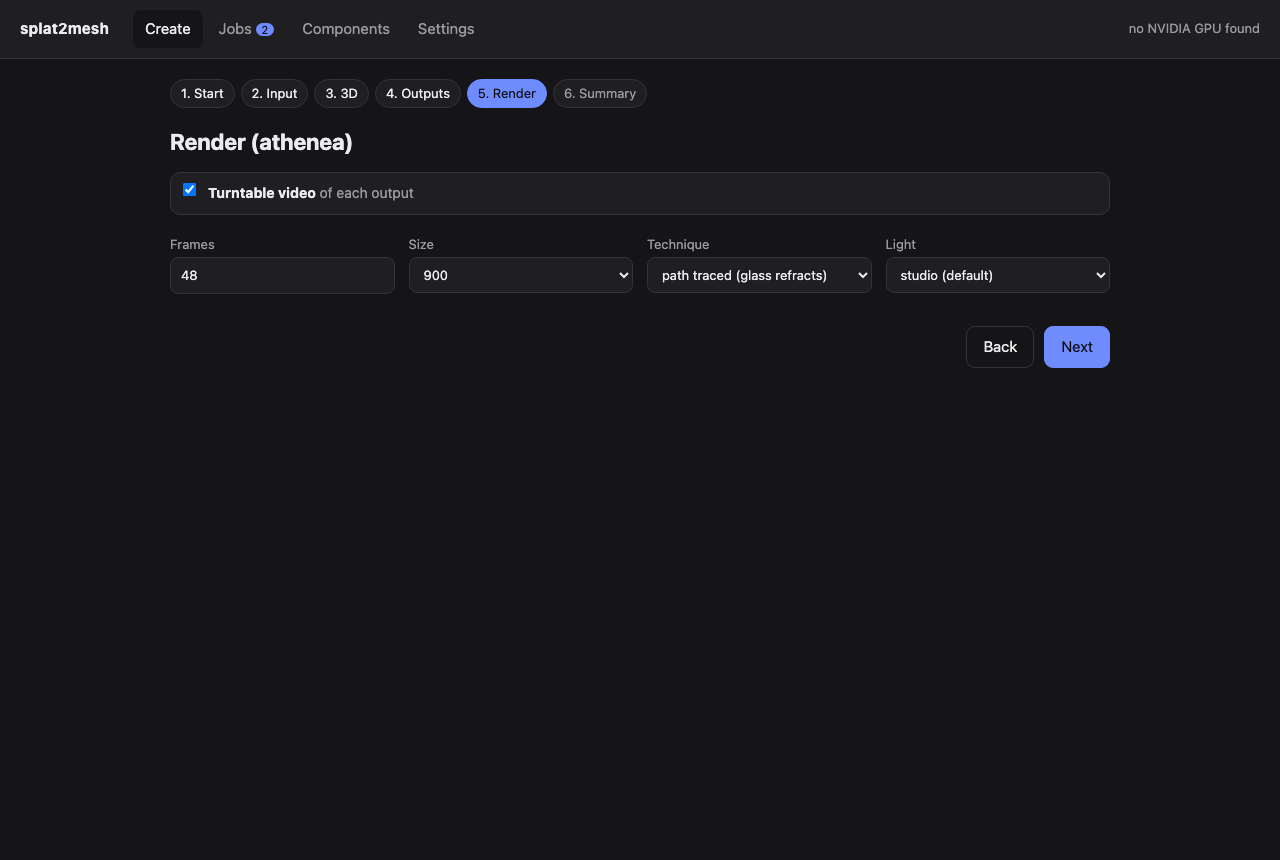
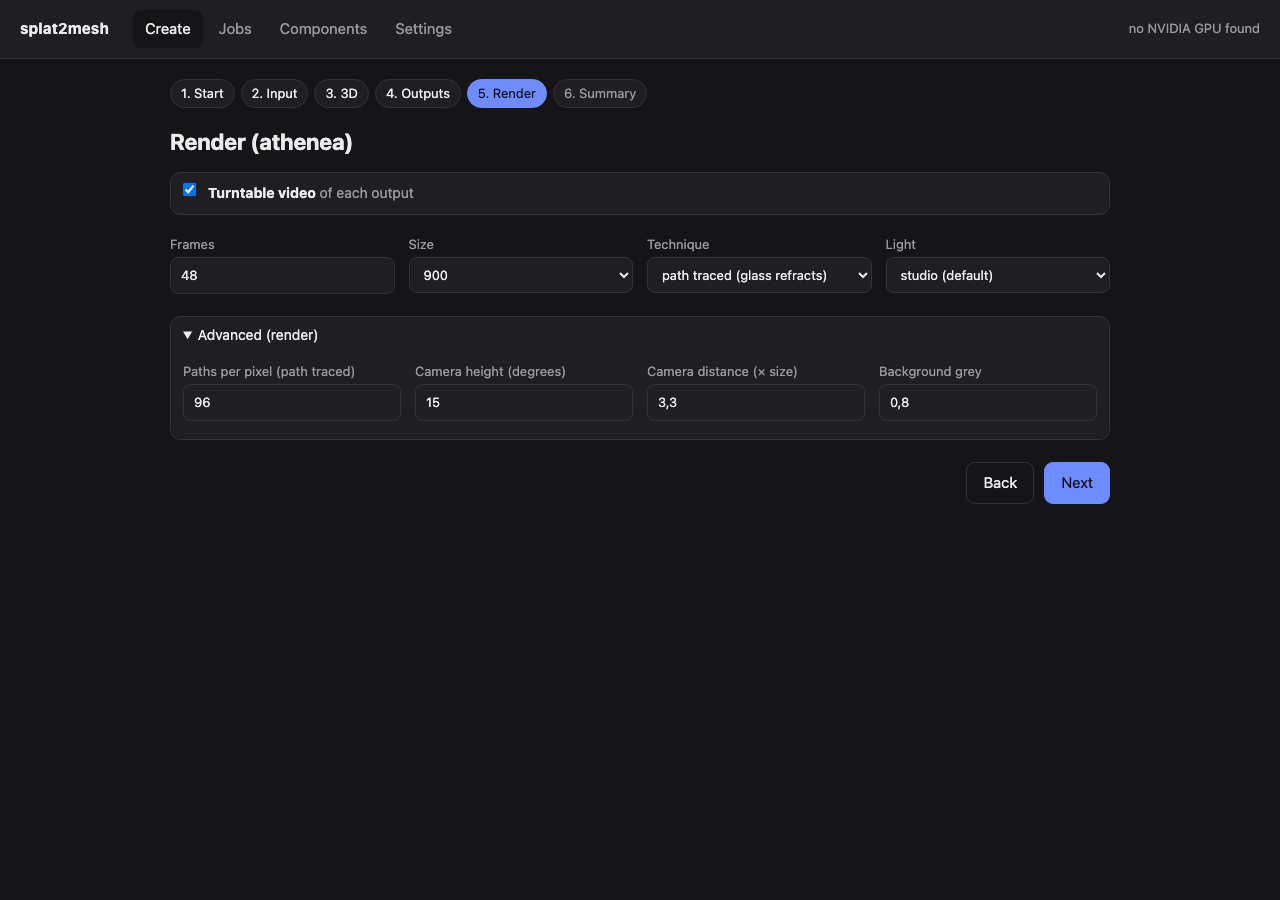
App: every option in the wizard (Advanced panels), offline DINOv3 for the installer
- 3D: picture type, sampling steps, CFG, time shift, DINOv3 precision (idol_sample passes them).
- Outputs: mesh path (direct / render), smoothing, folds limit, render-path texture; materials:
  parts limit, coverage check, mask check and overlaps, DeepSeek model; glass: refracting or
  for browsers, surfel spacing.
- Render: paths per pixel, camera height and distance, background grey.
- The summary lists what differs from the defaults; ?adv=1 opens every panel.
- winsetup install idol --dinov3-dir: a local DINOv3 copy instead of the gated download.

Claude-Session: https://claude.ai/code/session_01ShCsYzpi7wuwmF3CBAZNXx

diff --git a/splat2mesh/app/static/app.js b/splat2mesh/app/static/app.js
@@ -54,12 +54,19 @@ $("#image").onchange = () => { const f = $("#image").files[0]; const im = $("#im
 function options() {
   return {
     text2image: { seed: +$("#t2i_seed").value, size: $("#t2i_size").value, mode: $("#t2i_mode").value },
-    idol: { seeds: +$("#seeds").value, gaussians: +$("#gaussians").value },
+    idol: { seeds: +$("#seeds").value, gaussians: +$("#gaussians").value, mode: $("#idol_mode").value,
+            steps: +$("#idol_steps").value, cfg: +$("#idol_cfg").value, rescale_t: +$("#idol_rescale").value,
+            dinov3_dtype: $("#idol_dino").value },
     outputs: { splat: $("#out_splat").checked, mesh: $("#out_mesh").checked, materials: $("#out_materials").checked },
-    mesh: { faces: +$("#faces").value, tex: +$("#tex").value },
+    mesh: { faces: +$("#faces").value, tex: +$("#tex").value, path: $("#mesh_path").value, smooth: +$("#mesh_smooth").value,
+            max_folds: +$("#mesh_folds").value, render_tex: +$("#mesh_rtex").value },
+    materials: { max_parts: +$("#max_parts").value, coverage: $("#coverage").checked, overlap: $("#overlap").checked,
+                 deepseek_model: $("#ds_model").value.trim() },
+    glass: { mode: $("#glass_mode").value, cell: +$("#glass_cell").value },
     parts: $("#parts").value.trim(),
     render: { turntable: $("#tt").checked, frames: +$("#frames").value, size: +$("#size").value,
-              technique: $("#technique").value, hdri: $("#hdri").value },
+              technique: $("#technique").value, hdri: $("#hdri").value, spp: +$("#spp").value,
+              elev: +$("#elev").value, dist: +$("#dist").value, grey: +$("#grey").value },
   };
 }
 
@@ -73,6 +80,28 @@ function estimate(o, n) {      // minutes on an 8 GB RTX, from measured runs
   return Math.round(m * n);
 }
 
+function advancedSummary(o) {      // only what differs from the defaults
+  const d = [];
+  const i = o.idol;
+  if (i.mode !== "auto") d.push(`Idol ${i.mode}`);
+  if (i.steps !== 50) d.push(`${i.steps} steps`);
+  if (i.cfg !== 3) d.push(`CFG ${i.cfg}`);
+  if (i.rescale_t !== 3) d.push(`time shift ${i.rescale_t}`);
+  if (i.dinov3_dtype !== "bf16") d.push("DINOv3 fp32");
+  if (o.outputs.mesh && o.mesh.path !== "direct") d.push("render path");
+  if (o.outputs.mesh && o.mesh.smooth) d.push(`smoothing ${o.mesh.smooth}`);
+  if (o.materials.max_parts !== 12) d.push(`${o.materials.max_parts} parts max`);
+  if (!o.materials.coverage) d.push("no coverage check");
+  if (!o.materials.overlap) d.push("masks unchecked");
+  if (o.materials.deepseek_model) d.push(o.materials.deepseek_model);
+  if (o.glass.mode !== "path") d.push("glass for browsers");
+  if (o.glass.cell !== 1) d.push(`glass spacing ${o.glass.cell}`);
+  if (o.render.technique === "rt" && o.render.spp !== 96) d.push(`${o.render.spp} spp`);
+  if (o.render.elev !== 15 || o.render.dist !== 3.3) d.push(`camera ${o.render.elev}° × ${o.render.dist}`);
+  if (o.render.grey !== 0.8) d.push(`grey ${o.render.grey}`);
+  return d.join(", ");
+}
+
 function summary() {
   const o = options(); const s = source();
   const n = s === "batch" ? (batchKind() === "prompts" ? $("#batch_prompts").value.split("\n").filter((x) => x.trim()).length : $("#batch_images").files.length) : 1;
@@ -82,6 +111,7 @@ function summary() {
     ["Idol", s === "splat" ? "—" : `${o.idol.seeds} seed${o.idol.seeds > 1 ? "s (best kept)" : ""}, ${o.idol.gaussians.toLocaleString()} gaussians`],
     ["Outputs", outs], ["Materials", o.outputs.materials ? (o.parts ? "by hand: " + o.parts : "automatic (DeepSeek + ENEAS)") : "none"],
     ["Turntable", o.render.turntable ? `${o.render.frames} frames, ${o.render.size}px, ${o.render.technique}, ${o.render.hdri || "studio"}` : "none"],
+    ["Advanced", advancedSummary(o) || "defaults"],
     ["Estimated time", `about ${estimate(o, n)} min`],
   ];
   $("#summary").innerHTML = rows.map(([k, v]) => `<dt>${k}</dt><dd>${v}</dd>`).join("");
@@ -218,5 +248,6 @@ if (q.get("seeds")) { $("#seeds").value = q.get("seeds"); $("#seeds_v").value = 
 if (q.get("mesh")) $("#out_mesh").checked = q.get("mesh") === "1";
 if (q.get("technique")) $("#technique").value = q.get("technique");
 if (q.get("name")) $("#jobname").value = q.get("name");
+if (q.get("adv") === "1") $$("details").forEach((d) => d.open = true);
 if (q.get("step")) step = Math.max(0, visibleSteps().findIndex(([id]) => id === q.get("step")));
 renderSteps(); refreshStatus().then(() => { if (location.hash) show(location.hash.slice(1)); renderSteps(); }); refreshJobs();

diff --git a/splat2mesh/app/static/index.html b/splat2mesh/app/static/index.html
@@ -83,6 +83,17 @@
         <option value="131072">131 072 (fast)</option><option value="262144" selected>262 144</option>
         <option value="524288">524 288 (detail)</option><option value="1048576">1 048 576 (max)</option></select></label>
     </div>
+    <details><summary>Advanced (Idol)</summary>
+      <div class="row">
+        <label>Picture type <select id="idol_mode"><option value="auto" selected>automatic (.jpg = photo)</option>
+          <option value="synthetic">render or generated (crop 1.2)</option><option value="real">photo (crop 1.7)</option></select></label>
+        <label>Sampling steps <input id="idol_steps" type="number" value="50" min="10" max="200"></label>
+        <label>Guidance (CFG) <input id="idol_cfg" type="number" value="3.0" step="0.5" min="1" max="10"></label>
+        <label>Time shift <input id="idol_rescale" type="number" value="3.0" step="0.5" min="1" max="8"></label>
+        <label>DINOv3 precision <select id="idol_dino"><option value="bf16" selected>bf16</option><option value="fp32">fp32 (+1.7 GB)</option></select></label>
+      </div>
+      <p class="hint">Defaults are Idol's own. Seeds tried: 42, 1, 2, 3… in that order.</p>
+    </details>
   </div>
 
   <div class="step" data-step="outputs">
@@ -99,6 +110,31 @@
       <label>Faces <input id="faces" type="number" value="80000" step="10000"></label>
       <label>Texture <select id="tex"><option>2048</option><option selected>4096</option></select></label>
     </div>
+    <details><summary>Advanced (mesh)</summary>
+      <div class="row">
+        <label>Path <select id="mesh_path"><option value="direct" selected>direct mode (the splat's opacity field)</option>
+          <option value="render">render path (87 views, TSDF + visual hull)</option></select></label>
+        <label>Smoothing (Taubin, ×10 iterations) <input id="mesh_smooth" type="number" value="0" step="0.5" min="0" max="10"></label>
+        <label>Folds before the render path <input id="mesh_folds" type="number" value="300" min="0"></label>
+        <label>Render path texture <select id="mesh_rtex"><option>1024</option><option selected>2048</option><option>4096</option></select></label>
+      </div>
+    </details>
+    <details><summary>Advanced (materials)</summary>
+      <div class="row">
+        <label>Parts DeepSeek may list <input id="max_parts" type="number" value="12" min="3" max="20"></label>
+        <label class="check"><input id="coverage" type="checkbox" checked><span>Check for large parts the list missed (hands, boots…)</span></label>
+        <label class="check"><input id="overlap" type="checkbox" checked><span>Check each mask and settle overlaps (DeepSeek)</span></label>
+        <label>DeepSeek model <input id="ds_model" placeholder="deepseek-flash"></label>
+      </div>
+    </details>
+    <details><summary>Advanced (glass on the splat)</summary>
+      <div class="row">
+        <label>Glass <select id="glass_mode"><option value="path" selected>refracting (path traced in athenea)</option>
+          <option value="browser">seen through (raster, browsers)</option></select></label>
+        <label>Surfel spacing <select id="glass_cell"><option value="1" selected>fine (most surfels)</option>
+          <option value="1.5">medium</option><option value="2">coarse (a quarter, lighter files)</option></select></label>
+      </div>
+    </details>
     <details><summary>Parts by hand (optional)</summary>
       <p class="hint">Instead of the automatic list: <code>material: part, part; material: part</code> with the
         library's names, e.g. <code>leather: the boots, the belt; polished steel: the helmet</code>.</p>
@@ -115,6 +151,14 @@
         <option value="rt">path traced (glass refracts)</option></select></label>
       <label>Light <select id="hdri"></select></label>
     </div>
+    <details><summary>Advanced (render)</summary>
+      <div class="row">
+        <label>Paths per pixel (path traced) <input id="spp" type="number" value="96" min="8" max="2048"></label>
+        <label>Camera height (degrees) <input id="elev" type="number" value="15" min="-30" max="80"></label>
+        <label>Camera distance (× size) <input id="dist" type="number" value="3.3" step="0.1" min="1.5" max="8"></label>
+        <label>Background grey <input id="grey" type="number" value="0.8" step="0.05" min="0" max="1"></label>
+      </div>
+    </details>
   </div>
 
   <div class="step" data-step="review">

diff --git a/splat2mesh/app/static/style.css b/splat2mesh/app/static/style.css
@@ -76,3 +76,7 @@ a { color: var(--accent); }
 code { font-size: 12px; }
 @media (max-width: 640px) { header { flex-wrap: wrap; gap: 8px; } .gpu { margin-left: 0; } main { padding: 16px; }
   .summary { grid-template-columns: 1fr; } }
+details { margin: 12px 0; background: var(--panel); border: 1px solid var(--line); border-radius: 10px; padding: 8px 12px; }
+details > summary { cursor: pointer; color: var(--ink); font-size: 14px; }
+details[open] > summary { margin-bottom: 6px; }
+.row > .check { flex: 1 1 260px; margin: 10px 0; }

diff --git a/splat2mesh/app/pipeline.py b/splat2mesh/app/pipeline.py
@@ -7,11 +7,16 @@ JOB.json (every key optional except source and its input):
    "source": "prompt" | "image" | "splat",
    "prompt": "...", "image": "path.png", "splat": "path.ply", "camera": "idol_camera.json", "input": "idol_input.png",
    "text2image": {"seed": 7, "size": "1024x1024", "mode": "auto" | "gpu" | "cpu-encoder" | "space"},
-   "idol": {"seeds": 1, "gaussians": 262144},
+   "idol": {"seeds": 1, "gaussians": 262144, "mode": "auto" | "synthetic" | "real", "steps": 50, "cfg": 3.0,
+            "rescale_t": 3.0, "dinov3_dtype": "bf16" | "fp32"},
    "outputs": {"splat": true, "mesh": false, "materials": true},
-   "mesh": {"faces": 80000, "tex": 4096},
+   "materials": {"max_parts": 12, "coverage": true, "overlap": true, "deepseek_model": ""},
+   "glass": {"mode": "path" | "browser", "cell": 1.0},
+   "mesh": {"path": "direct" | "render", "faces": 80000, "tex": 4096, "smooth": 0.0, "max_folds": 300,
+            "render_tex": 2048},
    "parts": "",                                  # "material: part, part; ..." to skip the automatic part list
-   "render": {"turntable": true, "frames": 48, "size": 900, "technique": "raster", "hdri": ""}}
+   "render": {"turntable": true, "frames": 48, "size": 900, "technique": "raster", "spp": 96, "elev": 15,
+              "dist": 3.3, "grey": 0.8, "hdri": ""}}
 
 Progress lines:  PROGRESS <0-100> <stage>: <message>      Outputs:  <out>/results.json
 """
@@ -96,7 +101,9 @@ def idol(job, image: Path, out: Path, log: Path, prog) -> tuple[Path, Path, Path
         prog("splat", i / n, f"Idol, seed {s} ({i + 1}/{n})")
         d = out / "seeds" / f"s{s}"
         with gpu_lock():
-            ply = idol_sample(image, d, g, seed=s)
+            ply = idol_sample(image, d, g, seed=s, mode=o.get("mode"), steps=o.get("steps"),
+                              cfg_strength=o.get("cfg"), rescale_t=o.get("rescale_t"),
+                              dinov3_dtype=o.get("dinov3_dtype"))
         if n > 1:
             prog("splat", (i + 0.7) / n, f"scoring seed {s} from four sides (athenea + DeepSeek)")
             try:
@@ -124,8 +131,14 @@ def splat_materials(job, ply, cam, inp, out: Path, log: Path, prog) -> Path:
     cmd = [PY, ROOT / "scripts/splat_flow.py", ply, d, "--input", inp, "--camera", cam]
     if job.get("prompt"):
         cmd += ["--prompt", job["prompt"]]
+    m, g = job.get("materials", {}), job.get("glass", {})
+    cmd += ["--max-parts", m.get("max_parts", 12), "--glass", g.get("mode", "path"), "--glass-cell", g.get("cell", 1.0)]
+    cmd += (["--no-coverage"] if m.get("coverage") is False else []) + (["--no-overlap"] if m.get("overlap") is False else [])
+    env = dict(os.environ)
+    if m.get("deepseek_model"):
+        env["SPLAT2MESH_DEEPSEEK_MODEL"] = m["deepseek_model"]
     p = subprocess.Popen([str(c) for c in cmd], stdout=subprocess.PIPE, stderr=subprocess.STDOUT, text=True,
-                         encoding="utf-8", errors="replace")
+                         encoding="utf-8", errors="replace", env=env)
     # the stages of scripts/splat_flow.py and materials_eneas3d.py as they print them; ENEAS (the long part)
     # moves the bar phrase by phrase
     marks = [("parts:", 0.05, "parts listed"), ("annotation frame", 0.12, "orbit rendered with athenea"),
@@ -159,12 +172,15 @@ def mesh(job, ply, cam, inp, out: Path, log: Path, prog, reuse_from: Path | None
     shutil.copy(cam, src / "00" / "idol_camera.json")
     (out / "prompts.txt").write_text((job.get("prompt") or "") + "\n")
     m = job.get("mesh", {})
+    prog("mesh", 0.05, ("direct mode" if m.get("path", "direct") == "direct" else "render path") + ": solid, UVs, texture")
+    cmd = [PY, ROOT / "scripts/splat2usd.py", src / "00" / "00.ply", "--y-down", "--out", dst,
+           "--faces", m.get("faces", 80000), "--tex", m.get("tex", 4096), "--smooth", m.get("smooth", 0.0),
+           "--max-folds", m.get("max_folds", 300), "--render-tex", m.get("render_tex", 2048)]
+    sh(cmd + (["--direct"] if m.get("path", "direct") == "direct" else []), log)
     if not job.get("outputs", {}).get("materials", True):
-        prog("mesh", 0.05, "direct mode: solid, UVs, texture")
-        sh([PY, ROOT / "scripts/splat2usd.py", src / "00" / "00.ply", "--direct", "--y-down", "--out", dst,
-            "--faces", m.get("faces", 80000), "--tex", m.get("tex", 4096)], log)
         prog("mesh", 1, "mesh ready")
         return next(dst.rglob("asset.usda"))
+    prog("mesh", 0.3, "mesh ready; materials per texel from the splat's votes")
     if reuse_from is not None:                       # the splat's own ENEAS masks: no second segmentation
         mat = dst / "00" / "usd" / "mat"; mat.mkdir(parents=True, exist_ok=True)
         for f in ("masks_gs.npz",):
@@ -174,7 +190,6 @@ def mesh(job, ply, cam, inp, out: Path, log: Path, prog, reuse_from: Path | None
             shutil.copytree(reuse_from / "mat" / "gs_orbit", mat / "gs_orbit", dirs_exist_ok=True)
         if (reuse_from / "materials.txt").exists():
             shutil.copy(reuse_from / "materials.txt", dst / "00" / "materials.txt")
-    prog("mesh", 0.05, "direct mode, then materials per texel from the splat's votes")
     sh([PY, ROOT / "scripts/flow_batch.py", src, dst, out / "prompts.txt", "--gs", "--reuse-masks"], log)
     prog("mesh", 1, "mesh with materials ready")
     return dst / "00" / "usd" / "asset.usda"
@@ -188,7 +203,8 @@ def turntable(job, asset: Path, mp4: Path, front_deg: float, log: Path, prog, st
     if r.get("hdri"):
         kw["hdri"] = r["hdri"]
     tt(asset, mp4, frames=int(r.get("frames", 48)), size=int(r.get("size", 900)),
-       technique=r.get("technique", "raster"), start_deg=front_deg, **kw)
+       technique=r.get("technique", "raster"), start_deg=front_deg, spp=int(r.get("spp", 96)),
+       elev=float(r.get("elev", 15)), dist=float(r.get("dist", 3.3)), grey=float(r.get("grey", 0.8)), **kw)
     prog(stage, 1, mp4.name)
 
 

diff --git a/scripts/splat_flow.py b/scripts/splat_flow.py
@@ -35,6 +35,12 @@ def main():
     ap.add_argument("--camera", help="Idol's camera estimate for it (when SOURCE is a .ply)")
     ap.add_argument("--reuse-masks", action="store_true"); ap.add_argument("--turntable", type=int, default=0)
     ap.add_argument("--technique", default="rt", choices=["rt", "raster"])
+    ap.add_argument("--max-parts", type=int, default=12, help="parts DeepSeek may list")
+    ap.add_argument("--no-coverage", action="store_true", help="skip DeepSeek's check for large parts the list missed")
+    ap.add_argument("--no-overlap", action="store_true", help="keep ENEAS's masks as they are (no check, no overlap resolution)")
+    ap.add_argument("--glass", default="path", choices=["path", "browser"],
+                    help="glass surfels: fully covering (refracts when path traced) or at the raster cover (seen through in a browser)")
+    ap.add_argument("--glass-cell", type=float, default=1.0, help="glass surfel spacing in grid steps (2: a quarter as many)")
     a = ap.parse_args()
     out = Path(a.out); src = out / "src"; src.mkdir(parents=True, exist_ok=True)
     t0 = time.time(); log = lambda *m: print(f"[{time.time() - t0:6.0f}s]", *m, flush=True)
@@ -56,7 +62,9 @@ def main():
     if not desc_f.exists():
         from splat2mesh.describe import complete_parts, describe_ds, part_materials_from_prompt
         # the list, then a coverage check: large visible parts it left out (hands, a cloak) are added
-        desc = complete_parts(describe_ds(src / "idol_input.png", a.prompt), src / "idol_input.png")
+        desc = describe_ds(src / "idol_input.png", a.prompt, max_parts=a.max_parts)
+        if not a.no_coverage:
+            desc = complete_parts(desc, src / "idol_input.png")
         if a.prompt:
             desc = part_materials_from_prompt(desc, a.prompt.lower())
         desc_f.write_text(desc)
@@ -64,7 +72,8 @@ def main():
     log("parts:", desc)
 
     cmd = [sys.executable, str(ROOT / "scripts/materials_eneas3d.py"), str(out), str(src / "idol_input.png"), desc,
-           "--gs", str(ply), "--splat-only"] + (["--reuse-masks"] if a.reuse_masks else [])
+           "--gs", str(ply), "--splat-only"] + (["--reuse-masks"] if a.reuse_masks else []) \
+          + (["--no-overlap"] if a.no_overlap else [])
     p = subprocess.Popen(cmd, stdout=subprocess.PIPE, stderr=subprocess.STDOUT, text=True, encoding="utf-8",
                          errors="replace", env={**__import__("os").environ, "PYTHONUNBUFFERED": "1"})
     lines = []
@@ -76,7 +85,8 @@ def main():
     log("materials:", [l for l in lines if l.startswith(("splat materials", "splat finish"))])
 
     from splat2mesh.athenea_splat import write_splat_usd
-    log("USD:", write_splat_usd(out / "mat" / "splat_materials.ply", out / "splat.usdc", y_down=True))
+    log("USD:", write_splat_usd(out / "mat" / "splat_materials.ply", out / "splat.usdc", y_down=True,
+                                raster_glass=a.glass == "browser", glass_cell=a.glass_cell))
     if a.turntable:
         from splat2mesh.athenea import turntable
         import json

diff --git a/splat2mesh/winsetup.py b/splat2mesh/winsetup.py
@@ -220,7 +220,7 @@ def install_athenea():
     progress(100, c, f"ready: {exe}")
 
 
-def install_idol(vae: str = "klein"):
+def install_idol(vae: str = "klein", dinov3_dir: str | None = None):
     c = "idol"
     d = TOOLS / "idol-sdk"
     progress(2, c, "getting the Idol SDK")
@@ -242,6 +242,9 @@ from huggingface_hub import snapshot_download, hf_hub_download
 w = snapshot_download("speridlabs/idol", local_dir=r"{w}")
 cfg = json.load(open(os.path.join(w, "config.json")))
 cfg["image_encoders"]["flux2_vae"] = "{VAE[vae]}"
+DINO = r"{dinov3_dir or ''}"
+if DINO:                 # a local copy (offline install, no token): the config points at the folder
+    cfg["image_encoders"]["dinov3"] = DINO
 json.dump(cfg, open(os.path.join(w, "config.json"), "w"), indent=1)
 def get(repo, **kw):     # a gated repo without a token: the copy already in the cache, if there is one
     try:
@@ -251,7 +254,8 @@ def get(repo, **kw):     # a gated repo without a token: the copy already in the
             return snapshot_download(repo, local_files_only=True, **kw)
         except Exception:
             raise SystemExit(f"{{repo}}: {{e}} -- accept its terms on huggingface.co/{{repo}} and give a token.")
-get("{DINOV3}")
+if not DINO:
+    get("{DINOV3}")
 get("{VAE[vae]}", allow_patterns=["vae/*"])
 print("weights ok")
 """
@@ -331,6 +335,7 @@ def main():
     i = sp.add_parser("install"); i.add_argument("components", nargs="+", choices=COMPONENTS + ("all",))
     i.add_argument("--vae", default="klein", choices=list(VAE))
     i.add_argument("--iris-mode", default="cpu-encoder", choices=["cpu-encoder", "gpu", "space"])
+    i.add_argument("--dinov3-dir", help="a local DINOv3 folder (config.json + model.safetensors) instead of the gated download")
     i.add_argument("--hf-token-file", help="a file with a Hugging Face token: read, deleted, used for the downloads")
     o = sp.add_parser("options")
     o.add_argument("--deepseek-key-env", help="name of an environment variable holding the DeepSeek key")
@@ -362,7 +367,7 @@ def main():
     failed = []
     for comp in comps:
         try:
-            {"athenea": install_athenea, "idol": lambda: install_idol(a.vae), "eneas": install_eneas,
+            {"athenea": install_athenea, "idol": lambda: install_idol(a.vae, a.dinov3_dir), "eneas": install_eneas,
              "iris": lambda: install_iris(a.iris_mode)}[comp]()
         except Exception as e:
             print(f"FAILED {comp}: {e}", flush=True); failed.append(comp)

diff --git a/splat2mesh/remote.py b/splat2mesh/remote.py
@@ -42,18 +42,22 @@ def idol_mode(image: Path) -> str:
     return "real" if Path(image).suffix.lower() in {".jpg", ".jpeg"} else "synthetic"
 
 
-def idol_sample(image, work, gaussians: int = 262144, seed: int = 42) -> Path:
+def idol_sample(image, work, gaussians: int = 262144, seed: int = 42, mode: str | None = None, steps: int | None = None,
+                cfg_strength: float | None = None, rescale_t: float | None = None, dinov3_dtype: str | None = None) -> Path:
     """Picture → 3DGS .ply with Idol; also fetches Idol's prepared input and its estimate of the input camera."""
     image, work = Path(image), Path(work); work.mkdir(parents=True, exist_ok=True)
     host, osname, sdk = cfg("idol.host"), cfg("idol.os"), cfg("idol.sdk")
-    args = f"--mode {idol_mode(image)} --num_gaussians {gaussians} --seed {seed}"
+    mode = mode if mode in ("real", "synthetic") else idol_mode(image)
+    opt = [("--steps", steps), ("--cfg_strength", cfg_strength), ("--rescale_t", rescale_t), ("--dinov3_dtype", dinov3_dtype)]
+    extra = [x for k, v in opt if v not in (None, "") for x in (k, str(v))]       # Idol's own defaults otherwise
+    args = f"--mode {mode} --num_gaussians {gaussians} --seed {seed} " + " ".join(extra)
     if cfg("idol.weights"):
         args += f" --weights {cfg('idol.weights')}"
     stem = image.stem
     if host == "local":
         py = cfg("idol.python") or venv_python(Path(_x(sdk)) / ".venv")
         out = work / "idol"; out.mkdir(exist_ok=True)
-        argv = ["--mode", idol_mode(image), "--num_gaussians", str(gaussians), "--seed", str(seed)]
+        argv = ["--mode", mode, "--num_gaussians", str(gaussians), "--seed", str(seed), *extra]
         argv += ["--weights", _x(cfg("idol.weights"))] if cfg("idol.weights") else []
         _run([py, "-m", "idol.sample", "--image", str(image), "--out", str(out)] + argv
              + (["--no_optimize"] if WINDOWS else []),          # no torch.compile on Windows
